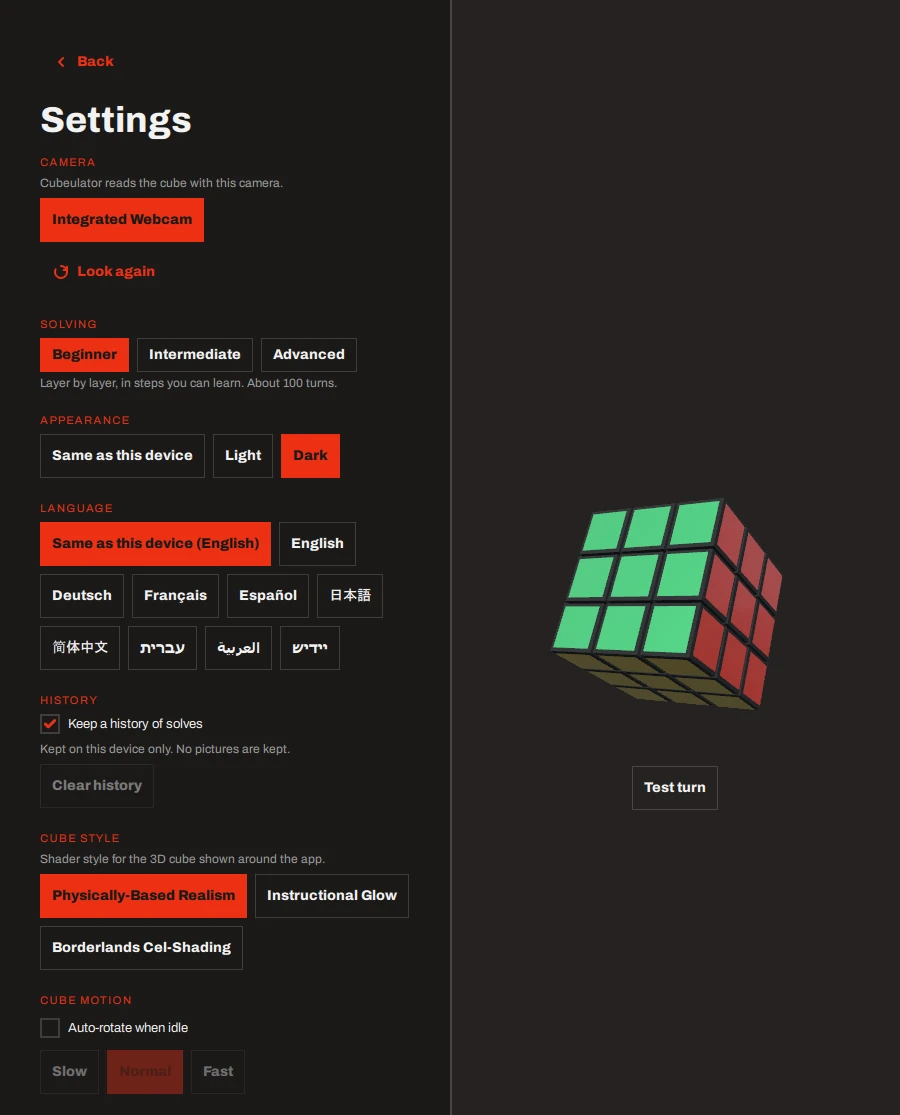
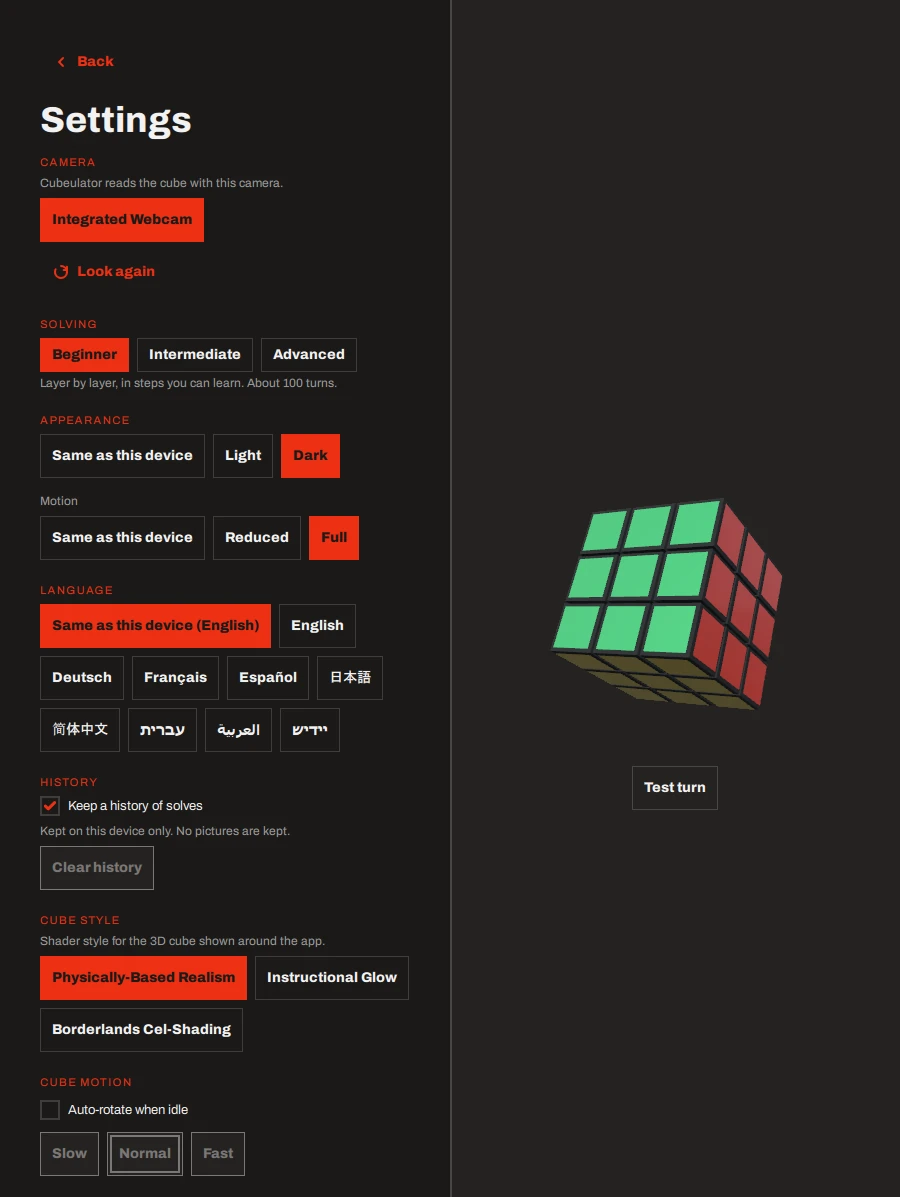
Retake the guide pictures that changed since the last refresh (#320)
## Summary

Retakes the guide pictures whose screens changed since the last refresh,
from the screenshot tour on develop at 67ef436 (this includes #322, the
new look for switched-off controls, #323 and #324, the move to
1.0.0-rc.1, and #325, the camera list).

Changed since 3f4d5b3, from the first commit:

- Settings (wide light and dark, narrow): the new Motion row under
Appearance. The pictures are cut a little lower because the row pushed
the rest down.
- Solve (start, middle and end, wide light and dark; middle narrow): the
stages are named Yellow top and Top layer in order, the current stage
has its sentence under it, and the move reads Top, Back and so on.
- Scan (looking, corner, reading, three sides, ambiguous): Reading this
side. Hold it there, and the size row marks only Auto.
- About (light and dark): the line under the name is now A camera-driven
cube solver.

Changed by #322 and #323, from the second commit:

- Settings (wide light and dark, narrow): Clear history, and the three
speed chips while Auto-rotate is off, are now a grey plate with a thin
edge and a grey label (not faded), and the chosen speed, Normal, has a
second ring. The chips used to be faded twice, so the label was barely
there.
- Scan, looking (wide light): Start over is the same plate.
- Solve, start (wide light and dark): Previous is the same plate on the
first move.
- Colours (`colours-wide-light`, `colours-turn-wide-light`,
[…]

diff --git a/tools/docs/update_guide_screenshots.py b/tools/docs/update_guide_screenshots.py
@@ -31,7 +31,7 @@ Notes for whoever does step 2:
 * The tour runs at 900x640 (wide) and 390x844 (narrow), light and dark. The
   guide's Settings pictures were taken with the window made about twice as
   tall for that one shot (a scratch edit in tour_test.cpp, like the other two:
-  `app.resize` to 900x1280 wide or 390x1688 narrow and `app.settle()` before
+  `app.resize` to 900x1280 wide or 390x1800 narrow and `app.settle()` before
   `tour.shoot("settings")`, then `app.resize(variant.size)` after it), and
   both are then cropped (CROP_HEIGHT below).
 * A scratch run for the pictures also renames the fake camera in
@@ -85,13 +85,15 @@ USED = [
 
 # Pictures cut to a height, so that one does not end on a heading with nothing
 # under it: Settings in the wide tour is taller than the tour's window made for
-# it, and stops part-way down the Rendering section. The narrow one runs to the
-# end of the Developer section and is cut just under "Snapshot now": the line
-# below it names the folder the diagnostics go to, which in a tour run is a
-# temporary folder of the machine it ran on, and must not be in a picture.
+# it, and is cut after the Cube motion buttons, just above the Rendering heading.
+# The narrow one runs to the end of the Developer section and is cut just under
+# "Snapshot now": the line below it names the folder the diagnostics go to, which
+# in a tour run is a temporary folder of the machine it ran on, and must not be in
+# a picture. Both heights move when a row is added to Settings: find them by
+# looking for the first blank rows under the last button to keep.
 CROP_HEIGHT = {
-    ("settings", "wide"): 1115,
-    ("settings", "narrow"): 1597,
+    ("settings", "wide"): 1197,
+    ("settings", "narrow"): 1680,
 }
 
 

diff --git a/docs/guide/settings.md b/docs/guide/settings.md
@@ -7,8 +7,8 @@ progress starts again from the first side, because the camera is closed while
 Settings is open.
 
 <figure markdown="span">
-  ![Settings: Camera, Solving, Appearance, Language, History, Cube style and Cube motion, with a 3D cube beside them.](img/settings-wide-light.webp#only-light){ loading=lazy }
-  ![Settings: Camera, Solving, Appearance, Language, History, Cube style and Cube motion, with a 3D cube beside them.](img/settings-wide-dark.webp#only-dark){ loading=lazy }
+  ![Settings: Camera, Solving, Appearance with its Motion row, Language, History with Clear history greyed out, Cube style, and Cube motion with its three speeds greyed out, with a 3D cube beside them.](img/settings-wide-light.webp#only-light){ loading=lazy }
+  ![Settings: Camera, Solving, Appearance with its Motion row, Language, History with Clear history greyed out, Cube style, and Cube motion with its three speeds greyed out, with a 3D cube beside them.](img/settings-wide-dark.webp#only-dark){ loading=lazy }
   <figcaption>The top of Settings on a desktop window. The list goes on, to
   Rendering, About and the Developer rows, and scrolls.</figcaption>
 </figure>
@@ -43,9 +43,9 @@ source code, which opens in your browser when you press it. **Back**, or
 of a scan or a solve, where leaving would lose your place.
 
 <figure markdown="span">
-  ![The About screen: Cubeulator, Version 0.2.0-beta.4, who made it, the GNU General Public License notice, a Licences row and the source code address.](img/about-wide-light.webp#only-light){ loading=lazy }
-  ![The About screen: Cubeulator, Version 0.2.0-beta.4, who made it, the GNU General Public License notice, a Licences row and the source code address.](img/about-wide-dark.webp#only-dark){ loading=lazy }
-  <figcaption>About. The version is the one on your screen; this picture is of 0.2.0-beta.4.</figcaption>
+  ![The About screen: Cubeulator, Version 1.0.0-rc.1, who made it, the GNU General Public License notice, a Licences row and the source code address.](img/about-wide-light.webp#only-light){ loading=lazy }
+  ![The About screen: Cubeulator, Version 1.0.0-rc.1, who made it, the GNU General Public License notice, a Licences row and the source code address.](img/about-wide-dark.webp#only-dark){ loading=lazy }
+  <figcaption>About. The version is the one on your screen; this picture is of 1.0.0-rc.1.</figcaption>
 </figure>
 
 **Licences** lists Cubeulator itself and every third-party component that is in

diff --git a/docs/guide/solve.md b/docs/guide/solve.md
@@ -6,8 +6,8 @@ cube notation: the layer to turn moves on the picture, and the screen says it
 in words as well.
 
 <figure markdown="span">
-  ![The solve screen at the start: the top layer of the 3D cube is nudged part-way round, Stage 1 of 5, and a Next turn button.](img/solve-start-wide-light.webp#only-light){ loading=lazy }
-  ![The solve screen at the start: the top layer of the 3D cube is nudged part-way round, Stage 1 of 5, and a Next turn button.](img/solve-start-wide-dark.webp#only-dark){ loading=lazy }
+  ![The solve screen at the start: the top layer of the 3D cube is nudged part-way round, Stage 1 of 5, a Previous button greyed out, and a Next turn button.](img/solve-start-wide-light.webp#only-light){ loading=lazy }
+  ![The solve screen at the start: the top layer of the 3D cube is nudged part-way round, Stage 1 of 5, a Previous button greyed out, and a Next turn button.](img/solve-start-wide-dark.webp#only-dark){ loading=lazy }
   <figcaption>The first move. The top layer is nudged the way it has to go.</figcaption>
 </figure>
 

diff --git a/docs/guide/other-sizes.md b/docs/guide/other-sizes.md
@@ -44,7 +44,7 @@ Choose **Another size of cube** on the start screen, then a size from 2x2 to
 </figure>
 
 <figure markdown="span">
-  ![The colours screen: the top and front sides of a 4x4 painted, the cube drawn beside them, and a count of the stickers still to paint.](img/colours-wide-light.webp){ loading=lazy }
+  ![The colours screen: the top and front sides of a 4x4 painted, the cube drawn beside them, a count of the stickers still to paint, and Redo and Solve greyed out.](img/colours-wide-light.webp){ loading=lazy }
   <figcaption>Painting a 4x4. The cube beside it is the cube as far as you have got.</figcaption>
 </figure>
 
